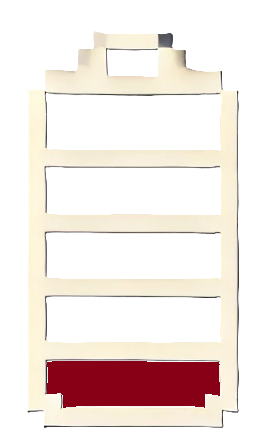
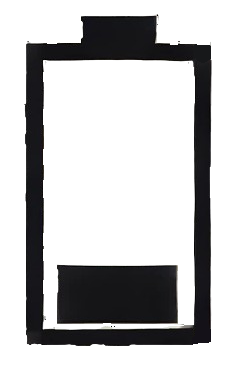
lekt m levels-displayen

diff --git a/index.html b/index.html
@@ -37,16 +37,16 @@
             
             <section class="tamagotchi-display tamagotchi-display--levels">
                 <section class="tamagotchi-levels tamagoshi-levels--hunger">
-                  <img class="level-icon" src="img/ramen.png" alt="">
-                  <img class="battery-icon" src="img/battery-5.png" alt="">
+                  <img class="level-icon" src="img/retro-bowl-removebg-preview.png" alt="">
+                  <img class="battery-icon" src="img/battery-1.png" alt="">
               </section>
               <section class="tamagotchi-levels tamagoshi-levels--sleep">
-                  <img class="level-icon" src="img/Heart_pixelart_(transparent_background).svg" alt="">
-                  <img class="battery-icon" src="img/battery-3.png" alt="">
+                  <img class="level-icon" src="img/heart-retro.png" alt="">
+                  <img class="battery-icon" src="img/battery-0.png" alt="">
               </section>
               <section class="tamagotchi-levels tamagoshi-levels--play">
-                  <img class="level-icon" src="img/emojipng.com-203539.png" alt="">
-                  <img class="battery-icon" src="img/battery-2.png" alt="">
+                  <img class="level-icon" src="img/retro-happy-removebg-preview (1).png" alt="">
+                  <img class="battery-icon" src="img/battery-3.png" alt="">
           </section>
                   
             </section>

diff --git a/style.css b/style.css
@@ -65,29 +65,30 @@ h1 {
   height: 60%; 
 }
 
-.tamagotchi-display--levels {
+.tamagotchi-display--tamagotchi {
   display: none;
 }
 
 .tamagotchi-display--levels {
-  gap: 2rem;
+  gap: 1rem;
   flex-direction: row;
+  justify-content: space-evenly;
 }
-
-.level-icon {
-  min-width: 3rem;
-  width: 5rem;
-}
-
-.battery-icon {
-  max-height: 8rem;
-}
-
 .tamagotchi-levels {
   display: flex;
   flex-direction: column;
-  gap: 1rem;
 }
+
+.level-icon {
+  min-width: 2rem;
+  width: 3.5rem;
+}
+
+.battery-icon {
+  height: 5rem;
+  max-height: 8rem;
+}
+
 
 .hatch-text {
   position: absolute;
